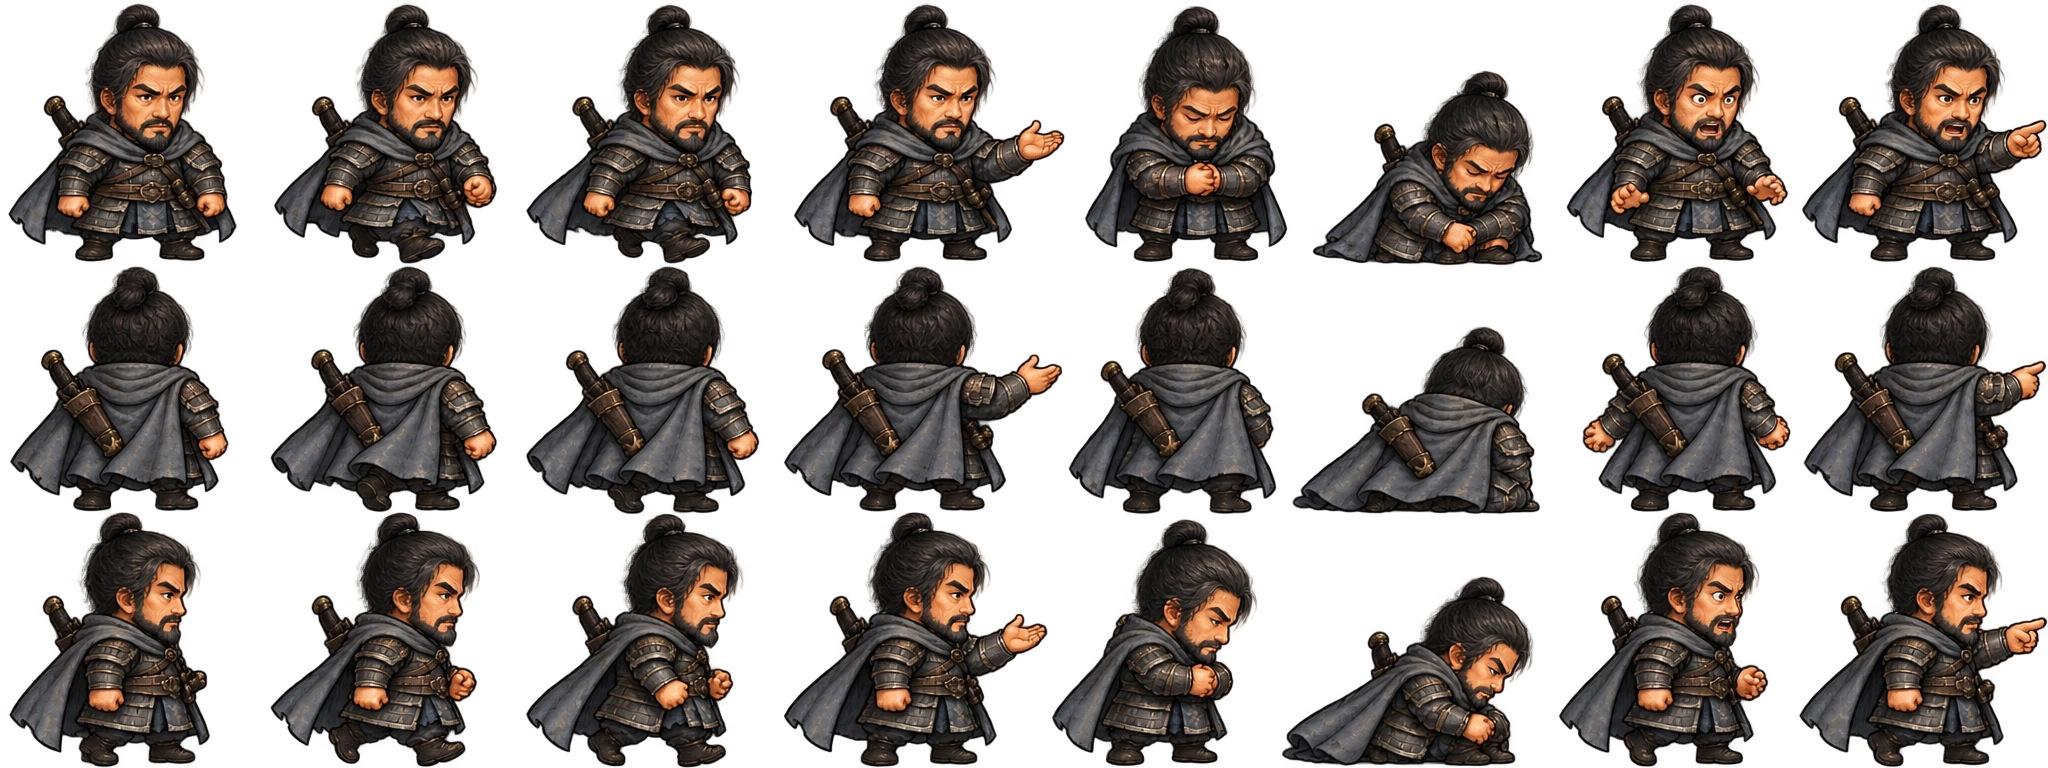
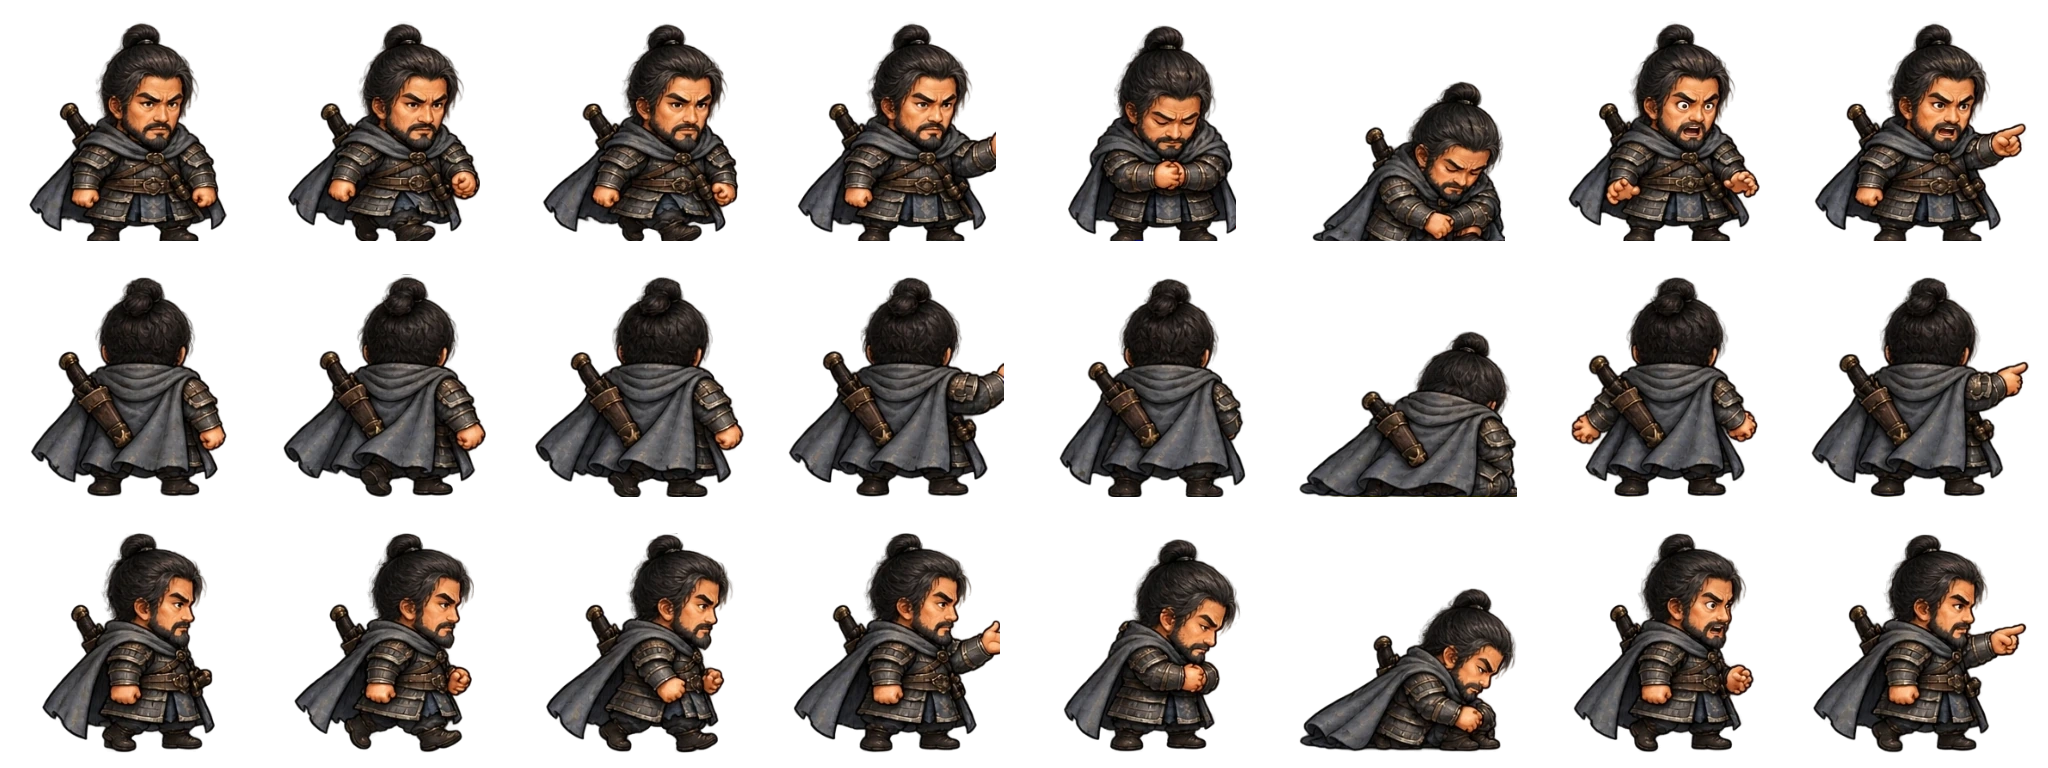
fix story sheets and seated council art

diff --git a/packages/web/src/story-figure.ts b/packages/web/src/story-figure.ts
@@ -10,7 +10,7 @@
  * 같은 그림의 윗몸과 아랫몸(옷자락·다리)을 나눠 기울이고 흔들어 만든다.
  *
  * 시트 배치는 도트 인물(story-pixel)과 같다: 9열(자세) × 3행(앞·뒤·옆).
- * 저장된 8열 원화에는 런타임에서 좌식 한 칸을 만들어 덧붙인다.
+ * 저장된 8열 원화에는 원화의 실제 무릎 자세를 좌식 한 칸으로 덧붙인다.
  */
 import type {Look} from './scenario-types.ts';
 import {officerLook} from './officer-art.ts';
@@ -200,15 +200,17 @@ function trimBleed(src:HTMLCanvasElement,sw:number,sh:number){
 }
 function paintedStorySheet(url:string,src:HTMLCanvasElement){
   const key=`painted:${url}`,hit=sheets.get(key);if(hit)return hit;
-  const cv=canvas(FIG_W*PX_COLS,FIG_H*PX_ROWS),g=cv.getContext('2d')!,sw=src.width/8,sh=src.height/PX_ROWS;
+  const cv=canvas(FIG_W*PX_COLS,FIG_H*PX_ROWS),g=cv.getContext('2d')!,sh=src.height/PX_ROWS,sourceCols=Math.round(src.width/sh),sw=src.width/sourceCols;
   // 칸을 꽉 채워 그린 시트(인물 키가 칸의 90% 넘게)는 기존 시트처럼 키 86%·발끝 94%로 줄여 담는다.
   // 그대로 담으면 다른 장수보다 머리 하나쯤 커 보이고, 발끝·창끝이 칸 가장자리에서 잘린다.
   const fit=figureFit(src,sw,sh),dw=FIG_W*fit.scale,dh=FIG_H*fit.scale,dx=(FIG_W-dw)/2,dy=fit.dy;
   src=trimBleed(src,sw,sh);
   for(let row=0;row<PX_ROWS;row++){
     for(let col=0;col<8;col++)g.drawImage(src,col*sw,row*sh,sw,sh,col*FIG_W+dx,row*FIG_H+dy,dw,dh);
-    const stand=canvas(FIG_W,FIG_H);stand.getContext('2d')!.drawImage(src,0,row*sh,sw,sh,dx,dy,dw,dh);
-    g.drawImage(poseFrom(stand,'sit'),PX_POSE.sit*FIG_W,row*FIG_H);
+    // 아홉째 칸 원화가 들어오면 그것을 쓰고, 기존 8열 시트는 실제로 그린
+    // 여섯째 칸(무릎 자세)을 쓴다. 서 있는 다리를 눌러 만든 좌식은 쓰지 않는다.
+    const sitCol=sourceCols>8?8:PX_POSE.kneel;
+    g.drawImage(src,sitCol*sw,row*sh,sw,sh,PX_POSE.sit*FIG_W+dx,row*FIG_H+dy,dw,dh);
   }
   const out=cv.toDataURL('image/png');sheets.set(key,out);return out;
 }

diff --git a/packages/web/src/story-iso.ts b/packages/web/src/story-iso.ts
@@ -1268,7 +1268,9 @@ function build(kind:Kind,seed:number,place='',clear:Set<string>=new Set(),artNo=
       add(bonsai(8.6,0.5,R));add(bonsai(0.5,12.4,R));
       break;
     case 'tent':
-      add(rug(4,4,6,5,'#5a3a22'));add(table(5.4,5.2,3,2,R));add(rack(0.4,3,3));add(brazier(1.4,9,R));add(brazier(9.5,1.4,R));add(banner(0.6,0.6,'#8a1f1a'));add(armorStand(3,0.6));add(chest(6,0.5));add(chest(0.5,12,'#4a3018'));add(cushion(4.6,6));add(cushion(8.6,6.4));add(barrel(12,0.6));add(warDrum(0.6,6.2));add(torch(3,9.6,R));add(torch(9.6,3,R));
+      add(rug(4,4,6,5,'#5a3a22'));add(lowTable(5.4,5.2,3,2,R));add(rack(0.4,3,3));add(brazier(1.4,9,R));add(brazier(9.5,1.4,R));add(banner(0.6,0.6,'#8a1f1a'));add(armorStand(3,0.6));add(chest(6,0.5));add(chest(0.5,12,'#4a3018'));
+      add(cushion(4.5,5.6));add(cushion(8.9,6.5));add(cushion(6.1,8,'#2a3a6a'));add(cushion(7.7,4.1,'#2a3a6a'));
+      add(barrel(12,0.6));add(warDrum(0.6,6.2));add(torch(3,9.6,R));add(torch(9.6,3,R));
       break;
     case 'store':
       for(let i=0;i<5;i++)add(crate(0.4+(i%2)*1.1,1.4+i*1.6,0.9));for(let i=0;i<4;i++)add(sacks(3+i*1.4,0.3,R));add(rack(10,0.4,3));add(lamp(6,6));for(let i=0;i<4;i++)add(barrel(13.5+(i%2)*0.6,0.4+Math.floor(i/2)*0.6));add(hay(2.6,9,R));add(chest(0.5,10.5,'#4a3018'));
